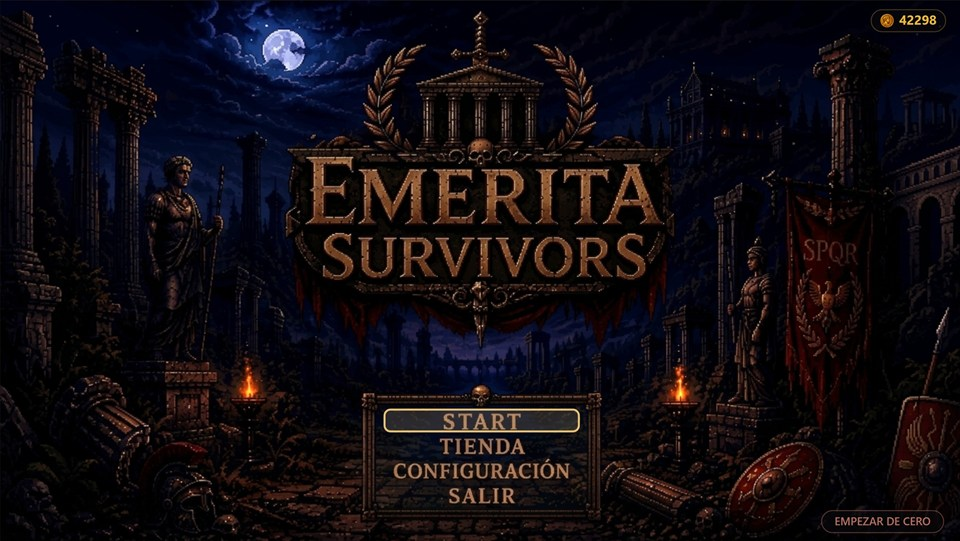
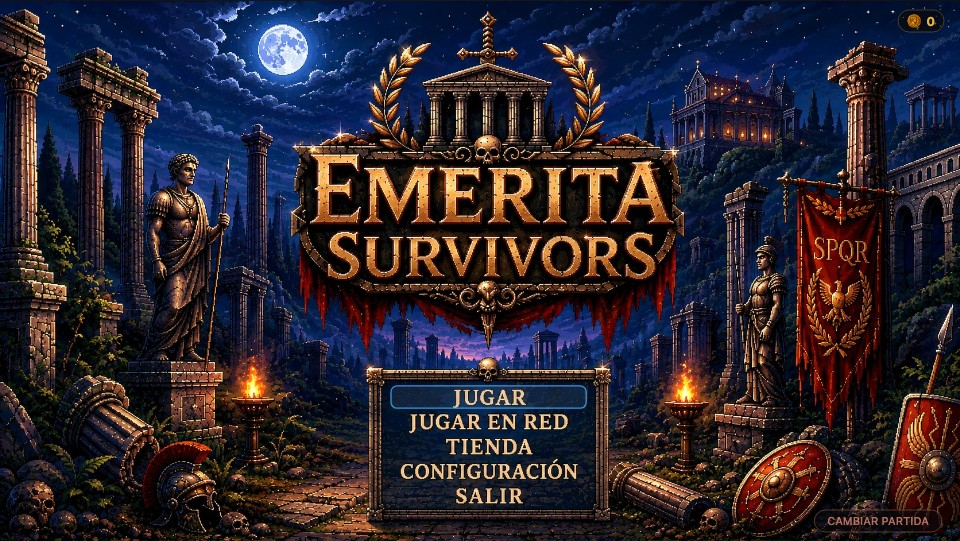
El README ya cuenta la nube y el cooperativo online, que no salian
Dos sistemas enteros, terminados y documentados aparte
(docs/cooperativo-online.md, nube/LEEME.md), no tenian ni una linea en el
README: jugar en red con lockstep determinista hasta con cuatro personas
-cada una en su casa, sin servidor, solo un codigo pasado por WhatsApp o
Discord- y la copia de progreso entre dispositivos, sin cuenta ni
contrasena. Anadidas las dos secciones, mas publicar-itch.ps1 en la tabla
de herramientas, que tampoco salia.

Y la portada (docs/capturas/main_menu.jpg) era del 25 de agosto: el titulo
se ha rehecho varias veces desde entonces -lapida nueva, cursor nuevo,
JUGAR EN RED anadido al menu-. Recapturada con Playwright contra el juego
de verdad.

Claude-Session: https://claude.ai/code/session_01LRq8wfm2TQqM6iby5vbExR

diff --git a/README.md b/README.md
@@ -126,6 +126,27 @@ el teclado.
 
 ---
 
+## Cooperativo online
+
+Hasta **cuatro jugadores en red**, cada uno en su casa, sin servidor: se juega
+desde **JUGAR EN RED** en el título. Quien crea la partida genera un código y lo
+manda por donde habléis —WhatsApp, Discord, lo que sea—; el otro contesta con el
+suyo. Dos mensajes y a jugar.
+
+Por la red viajan solo las **pulsaciones**, nunca el estado del mundo:
+[lockstep](https://en.wikipedia.org/wiki/Lockstep_%28computing%29) determinista, la
+misma técnica de los RTS clásicos. Cada máquina simula la partida entera por su
+cuenta a partir de la misma semilla, así que el tráfico es mínimo y no hace
+falta ningún servidor de partida — el código WebRTC conecta las máquinas
+directamente. Con tres o cuatro jugadores, el anfitrión reenvía lo que pulsa
+cada invitado a los demás.
+
+Si se cae la conexión a mitad de partida, un cartel lo dice y ofrece
+**RECONECTAR**: se repite el baile de códigos y la partida sigue exactamente
+donde se quedó, sin reiniciar nada.
+
+---
+
 ## Los cuatro
 
 Cada personaje lleva **su** arma, la que nadie más puede llevar. En cooperativo
@@ -273,6 +294,20 @@ que es la otra forma de que te toque algo bueno sin haberlo comprado.
 
 ---
 
+## La copia en la nube
+
+El progreso —denarios, héroes y potenciadores desbloqueados— se puede llevar de
+un ordenador a otro. **Sin cuenta, sin correo, sin contraseña**: la identidad es
+un código de 128 bits que el juego genera solo.
+
+No es la fuente de la verdad, es una copia: el navegador sigue guardando donde
+siempre, y si el servidor no contesta —o no hay servidor puesto— se juega
+exactamente igual, guardando en local. Por debajo es un Worker de Cloudflare con
+una base D1, los dos dentro del plan gratuito. Detalle completo en
+[nube/LEEME.md](nube/LEEME.md).
+
+---
+
 ## Cómo está hecho
 
 **Restricciones no negociables**, y se cumplen todas:
@@ -332,6 +367,7 @@ Todas offline, en PowerShell y sin dependencias. Ninguna forma parte del juego.
 | `ver-assets.ps1` | Describe imágenes sin abrirlas |
 | `empaquetar.ps1` | Genera la aplicación de escritorio |
 | `empaquetar-web.ps1` | Genera el zip para itch.io (o cualquier host estático) |
+| `publicar-itch.ps1` | Sube ese zip a itch.io con `butler` |
 
 ---
 
